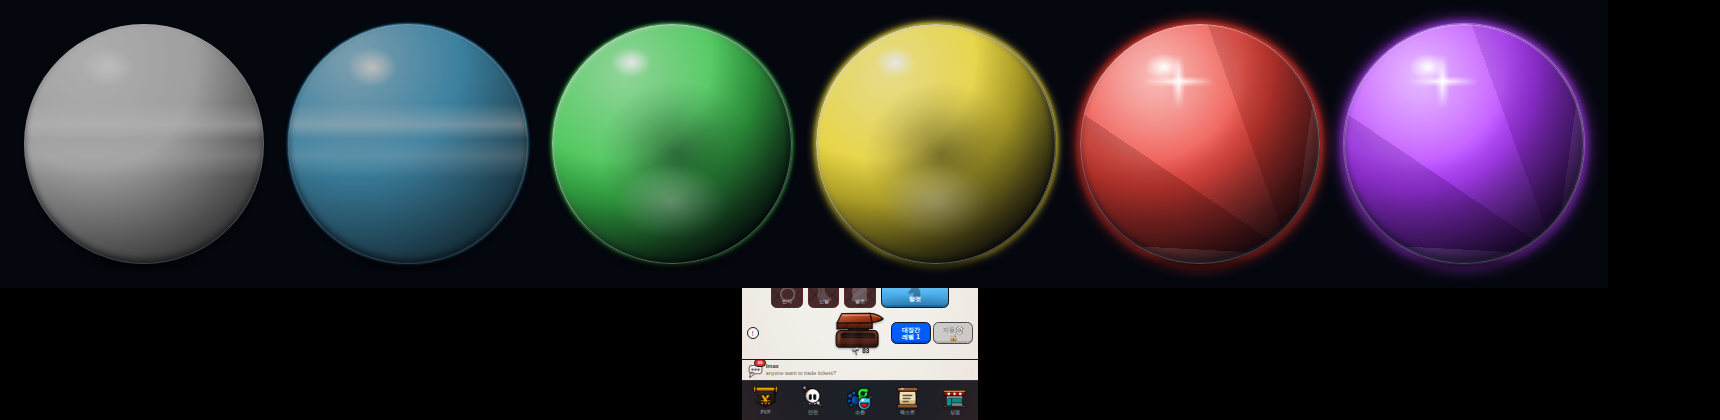
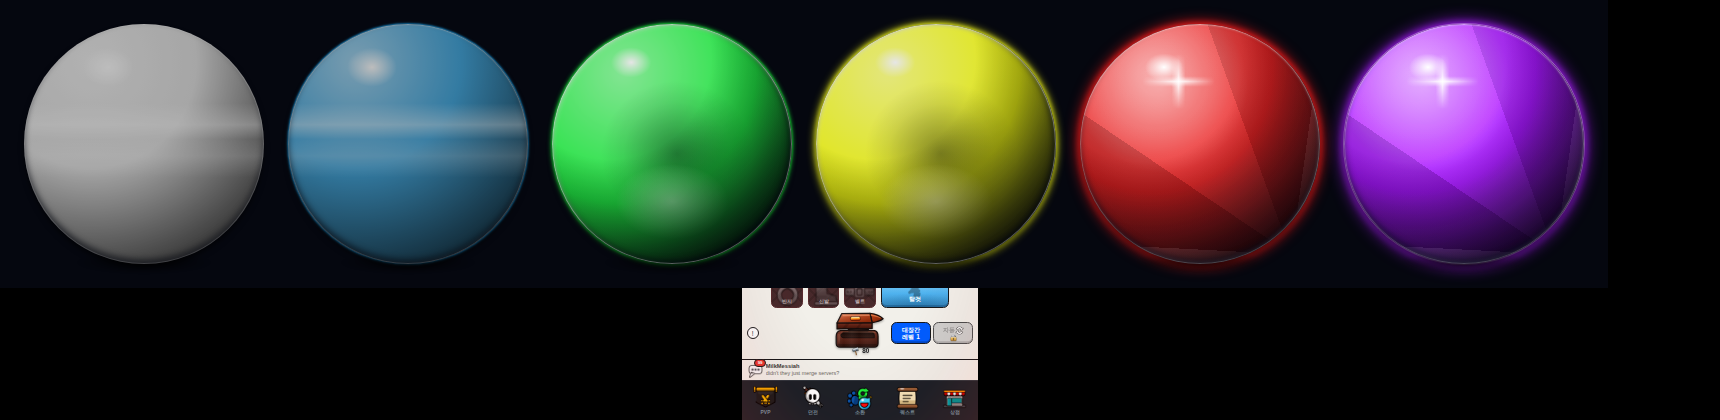
소환 결과 — 아이콘에 구체와 같은 조명을 입힌다 (summon-result-popup 10차 잔여 ⑦)
B 중간 지적: 아이콘이 구체 조명을 안 받아 스티커로 읽힌다(이모지라서가 아니라
조명 통합 부재). 처방 3겹을 그대로 넣었다 — 접지 그림자 / 4% 배럴 스케일 /
구체와 같은 좌표의 스페큘러를 아이콘 위에 screen·.35 로 한 겹.
.sr-orb::after 는 done 아이들 스윕이, ::before 는 보석 패싯이 이미 쓰므로
아이콘을 .sr-ico 로 감싸 그 위에 얹었다.

⚠ 객관적 자는 못 세웠다 — 차분 마스크 방식이 두 판 다 실패했고(그림자를 재거나
테스트 글리프 자체가 그라디언트를 가진다) 잘못된 수치를 뱉는 프로브는 남기지 않았다.
실패한 두 설계와 다음 착수안은 TODO 메모에 적었다. 눈 검증 + 회귀는 통과:
probe-sr-material 6/6 / probe-sr-labels / probe-sr-crowd PASS, 콘솔 에러 0.

diff --git a/web/css/style.css b/web/css/style.css
@@ -4523,6 +4523,30 @@ body {
                 inset -.1rem -.16rem .5rem rgba(255,255,255,.2), /* 반대편 바운스 림 */
                 0 .5rem .8rem -.15rem rgba(0,0,0,.7);
 }
+/* ===== 아이콘 조명 통합 (10차 비평가 B ⓺ [중간] "아이콘이 구체 조명을 안 받아 스티커로 읽힌다") =====
+   ⚠ B 가 지적한 것은 **이모지라는 점이 아니라 조명 통합 부재**다(에셋 교체는 별도 항목이고
+   '외부 에셋 임베드 금지' 제약에도 걸린다). 글리프가 구체 위에 그냥 얹혀 있어서, 구체가
+   아무리 구면으로 보여도 아이콘만 평평한 인쇄물로 남았다. 처방 3겹(B 가 적은 그대로):
+     ⑴ 접지 그림자 — 글리프가 구체 표면 위에 '놓인' 두께를 만든다
+     ⑵ 약 4% 배럴 스케일 — 구면에 얹힌 것은 가운데가 미세하게 부푼다
+     ⑶ 구체 스페큘러를 **아이콘 위에** 한 겹 더(screen, α .35) — 유리 안에 든 것으로 읽힌다
+   ⚠ `.sr-orb::after` 를 쓰면 안 된다 — 그 자리는 `.done` 아이들 스페큘러 스윕이 이미 쓰고
+      있고(`#summon-result-modal.done .sr-cell.on .sr-orb::after`), `::before` 는 보석 패싯이 쓴다.
+      그래서 아이콘을 `.sr-ico` 로 감싸고 그 위에 얹는다. */
+.sr-ico {
+    position: relative; display: block; font-style: normal;
+    filter: drop-shadow(0 3px 5px rgba(0, 0, 0, .55));
+    transform: scale(1.04);
+}
+.sr-ico::after {
+    /* 구체 상단 좌측 하이라이트와 **같은 위치·같은 모양**이어야 한다 — 다른 데서 빛나면
+       '구체와 아이콘이 서로 다른 조명을 받는' 지금 상태가 그대로 남는다. */
+    content: ''; position: absolute; left: -60%; top: -60%; width: 220%; height: 220%;
+    pointer-events: none; mix-blend-mode: screen; opacity: .35;
+    background:
+        radial-gradient(16% 13% at 36% 19%, #fff, rgba(255,255,255,0) 72%),
+        radial-gradient(58% 52% at 50% 15%, rgba(255,255,255,.6), rgba(255,255,255,0) 64%);
+}
 /* 재질 정체성 — 여섯 등급이 '같은 구슬의 색놀이'로 보이던 문제. 색 위계와 별개로
    재질 자체를 셋으로 가른다: 하위=무광 금속 / 중위=유리 / 상위=보석.
    기본 .sr-orb 스택(유광 구체)은 metal이 이어받고, glass·gem이 각자 덮어쓴다. */

diff --git a/web/js/ui.js b/web/js/ui.js
@@ -288,7 +288,7 @@ const UI = {
                     <span class="sr-ray"></span>
                     <span class="sr-beam"></span>
                     <span class="sr-ghost"></span>
-                    <span class="sr-orb">${e.icon}</span>
+                    <span class="sr-orb"><i class="sr-ico">${e.icon}</i></span>
                     <span class="sr-spark"></span>
                     ${e.qty > 1 ? `<b class="sr-qty">×${e.qty}</b>` : ''}
                     ${e.extra ? `<b class="sr-dup">${e.extra}</b>` : ''}

diff --git a/web/TODO.md b/web/TODO.md
@@ -1565,6 +1565,7 @@
       - **🟡 11차 진행 메모 — 10차 잔여 ⑤ 절반 처리(3D 스트림, 2026-08-18). ⑤는 아직 열려 있다.** ■ **재현 조건부터 찾았다(이게 이 지적이 회차를 넘긴 이유다)**: 그냥 x75를 굴리면 만렙 소환(`summonCount=5000`)이라 등급이 흩어져 18셀 `mid` 판이 되고, **그 판은 멀쩡하다**(무대 세로 점유 82%·정보 없는 행 29.2%). A 가 잡은 건 **저등급 판**(`summonCount=0`)이라 고유 항목이 6개로 묶여 `sr-grid`(mid 아님)가 되는 화면이고, 예전 임계 `const stage = entries.length <= 5` 에 딱 걸려 **무대(`.sr-floor`)도 천개(`.sr-canopy`)도 안 붙었다.** 즉 6~10셀 구간만 맨 그리드로 떠 있었다. ■ **처리한 것**: 임계를 `<= 10` 으로 넓혔다 — 셀이 풀사이즈인 판은 그리드만으로 화면을 못 채우므로 무대가 필요하고, 11셀 이상(mid/dense)은 셀 수로 차므로 지금처럼 무대 없이 둔다. **실측(신설 `tools/probe-sr-stage-gap.js`)**: 6셀 판의 **무대 세로 점유 19% → 41%**(천개 323~419 + 그리드 388~501 + 바닥 464~565 + 반사 493~558). ■ 🔴 **그런데 A 의 자는 안 움직였다 — 66.7% 그대로다.** A 의 자를 그대로 썼다(플레이영역을 30px 행으로 잘라 std < 30/255 인 행의 비율. A 는 "std 11~30 = 정보 0"이라 적었다). **무대·천개는 어두운 배경 위 얇은 선화라 이 문턱을 원리적으로 못 넘는다.** 그러니 **다음 세션이 할 일은 '무대를 붙이는 것'이 아니다(붙었다) — 위·아래 밴드에 실제 휘도 변화를 만드는 것**이다. DOM 실측으로 남은 구멍의 위치를 못 박아 둔다: 본문 y150~737(587px) 중 콘텐츠는 **y323~565(242px)** 뿐이고 **y150~323(173px)·y565~737(172px)** 이 빈다. ■ **다음 세션 착수안(값 순, 내 판단)**: ㉠ **`UI.srCols()` 가 6셀 판에서 6열(한 줄)을 고르는 것이 근본 원인이다** — 가로로 꽉 차는 대신 셀이 작아지고 세로는 113px만 쓴다. 6~10셀은 3~4열로 내려 **두 줄**로 세우면 셀이 커지고 세로 점유가 같이 는다(⚠ 고아 행 회피 규칙을 깨지 말 것 — 7차에 `srCols` 가 그걸 위해 만들어졌고 n=6~24 전 구간 실측으로 지켰다). ㉡ 그래도 남는 아래 밴드는 바닥 반사(`.sr-reflect`, 지금 y493~558·64px·α .44)를 키우는 쪽이 자연스럽다. ㉢ 위 밴드는 천개 빛발을 더 길게. ■ **프로브 상태**: `probe-sr-stage-gap.js` 는 **일부러 빨간불로 둔다** — ⓐ 무대 세로 점유(≥38%)는 PASS, ⓑ A 의 픽셀 자(목표 ≤30%)는 66.7%로 **FAIL**. 초록불로 만들려고 문턱을 손대지 말 것: 이 FAIL 이 ⑤가 열려 있다는 유일한 표시다. ■ **회귀**: `probe-sr-labels` PASS · `probe-sr-depth` 전체 통과 · 저등급 x75 실캡처 콘솔 에러 0건(무대·천개가 실제로 그려지는 것을 눈으로 확인).
       ⑥ **[A ⓻ 중간] 같은 신화가 한 화면에서 두 크기로 나온다** — `tl-x75/t3060`의 히어로 '신의 창' 159px vs 3행 5번째 '신성한 가호' 60px(같은 신화). 최고 등급 시각 무게가 같은 프레임에서 2.6배 차이. 처방: 승격을 '최고 등급 전부'로 넓히거나, 그리드에 남는 동일 등급 셀에 히어로 오라의 축소판을 붙일 것.
       ⑦ **[B ⓺ 중간] 아이콘이 구체 조명을 안 받아 '스티커'로 읽힌다**(이모지인 점이 아니라 **조명 통합 부재**만 지적) — 처방: 아이콘에 `drop-shadow(0 3px 5px rgba(0,0,0,.55))` 접지 그림자 + 약 4% 배럴 스케일 + **구체 스페큘러 레이어를 아이콘 위에 `mix-blend-mode: screen`·opacity .35로 한 겹 더** (B는 이것만으로도 '유리 안에 들었다'가 생긴다고 적었다).
+      - **🟡 11차 진행 메모 — 10차 잔여 ⑦ 구현 완료, 다만 객관적 자를 못 세웠다(3D 스트림, 2026-08-18).** ■ **구현**: B 의 처방 3겹을 그대로 넣었다 — 아이콘을 `<i class="sr-ico">` 로 감싸고 ⑴ `drop-shadow(0 3px 5px rgba(0,0,0,.55))` 접지 그림자 ⑵ `scale(1.04)` 배럴 ⑶ `.sr-ico::after` 에 **구체와 같은 좌표의 스페큘러 두 겹**(`radial-gradient 16%/13% at 36% 19%` + `58%/52% at 50% 15%` — `.sr-orb` 배경 스택에서 그대로 가져왔다)을 `mix-blend-mode: screen` · opacity .35 로. ⚠ **`.sr-orb::after` 를 쓰면 안 된다** — 그 자리는 `.done` 아이들 스페큘러 스윕이 이미 쓰고 `::before` 는 보석 패싯이 쓴다. 그래서 래퍼를 새로 뒀다. **눈 검증**: 저등급 x75 실캡처에서 여섯 아이콘 전부 좌상에 스페큘러 띠가 얹히고 아래로 접지 그림자가 생겨, 평평한 인쇄물이 아니라 표면 아래 든 것으로 읽힌다. **회귀**: `probe-sr-material` 6/6 PASS(그 프로브는 아이콘 없는 구체를 따로 지어 재므로 영향 없음) · `probe-sr-labels` PASS · `probe-sr-crowd` 전체 통과 · 콘솔 에러 0. ■ 🔴 **자는 두 판 다 실패했다 — 다음 세션이 같은 설계를 되풀이하지 말 것.** 시도한 것: 아이콘 없는 구체 ↔ 큰 블록 글리프(`█`) 구체를 대응 차분해 글리프 마스크를 얻고, 그 안에서 **광원 쪽(좌상) ÷ 반대쪽(우하) 평균 휘도**를 재는 방식(`probe-heronum` 의 차분 마스크 기법). ㉠ **침식 없이 재면 그림자를 잰다** — 차분 영역이 글리프 본체뿐 아니라 내가 새로 넣은 **드롭섀도·AA 프린지**까지 물고, 그림자가 아래에 치우쳐 비율을 지배한다. 실측 수정 전 1.367 > 수정 후 1.119 로 **개선이 후퇴로 나왔다**. ㉡ **4-이웃 침식 3회로 내부만 남겨도 안 됐다** — 이번엔 수정 전 1.060/0.910/0.989 ↔ 수정 후 0.835/0.927/0.903 으로 방향이 뒤죽박죽이다. 원인은 **테스트 글리프 자체**로 보인다: `█` 가 이 폰트에서 균일한 흰 블록으로 안 그려져(좌상 122 / 우하 146 처럼 자기 그라디언트를 갖는다) 비교의 기준면이 흔들린다. ■ **다음 세션 착수안**: 테스트 글리프에 의존하지 말고 **단색 사각 `<div>` 를 `.sr-ico` 자리에 넣어** 기준면을 완전히 평평하게 만든 뒤 좌상/우하를 재라(글리프 렌더링 변수를 통째로 제거한다). 그러면 스페큘러 오버레이의 기여만 남는다. 그 자를 세운 뒤 **수정 전 빌드로 되돌려 여전히 FAIL 인지 반드시 교차검증할 것** — 이번에 그 교차검증이 아니었으면 '개선했다'고 잘못 적을 뻔했다. ■ 실패한 프로브 파일은 **남기지 않았다** — 잘못된 수치를 뱉는 자는 없느니만 못하다.
       ⑧ ~~[B ⓻ 중간] 하단 요약 칩의 광채가 칩에서 55px 떠 있다~~ → **기각(오귀속).** `.sr-chip` 은 광채를 **자기 `box-shadow`**(`0 0 .5rem/.7rem var(--cb)`)로 달고 있어 원리적으로 칩에서 떨어질 수 없다. DOM 실측: `.sr-sum`·`.sr-chip` 이 **y 741~763**(B 가 말한 칩 행 743~763 과 일치), B 가 '칩 광채'라고 부른 y≈680~730 밴드는 **`.sr-reflect`(y 581~755) = 바닥 반사**다 — 8차에 하단 빈 밴드를 채우려고 넣은 의도된 요소이고 **A 가 6차에서 '되돌리지 말 것'으로 꼽았다**. 처방대로 73px 내리면 멀쩡한 반사를 망가뜨린다.
       ⑨ **[B ⓼⓽ 낮음] ×N 배지와 2줄 이름칩 여유 1px**(`tl-x75/t3060` '신성한 가호' 배지 y=450~464 vs 칩 y=465~484, 배지 우측이 칩 우측선 7px 초과) · **좌우 여백 17px(4.1%)**, `mount-x5-3400`은 우측 6px로 좌우 비대칭 11px.
       **❌ 교차검증 완료 — 둘 다 기각됐다(이번 세션이 처리). 다음 세션은 좇지 말 것**
